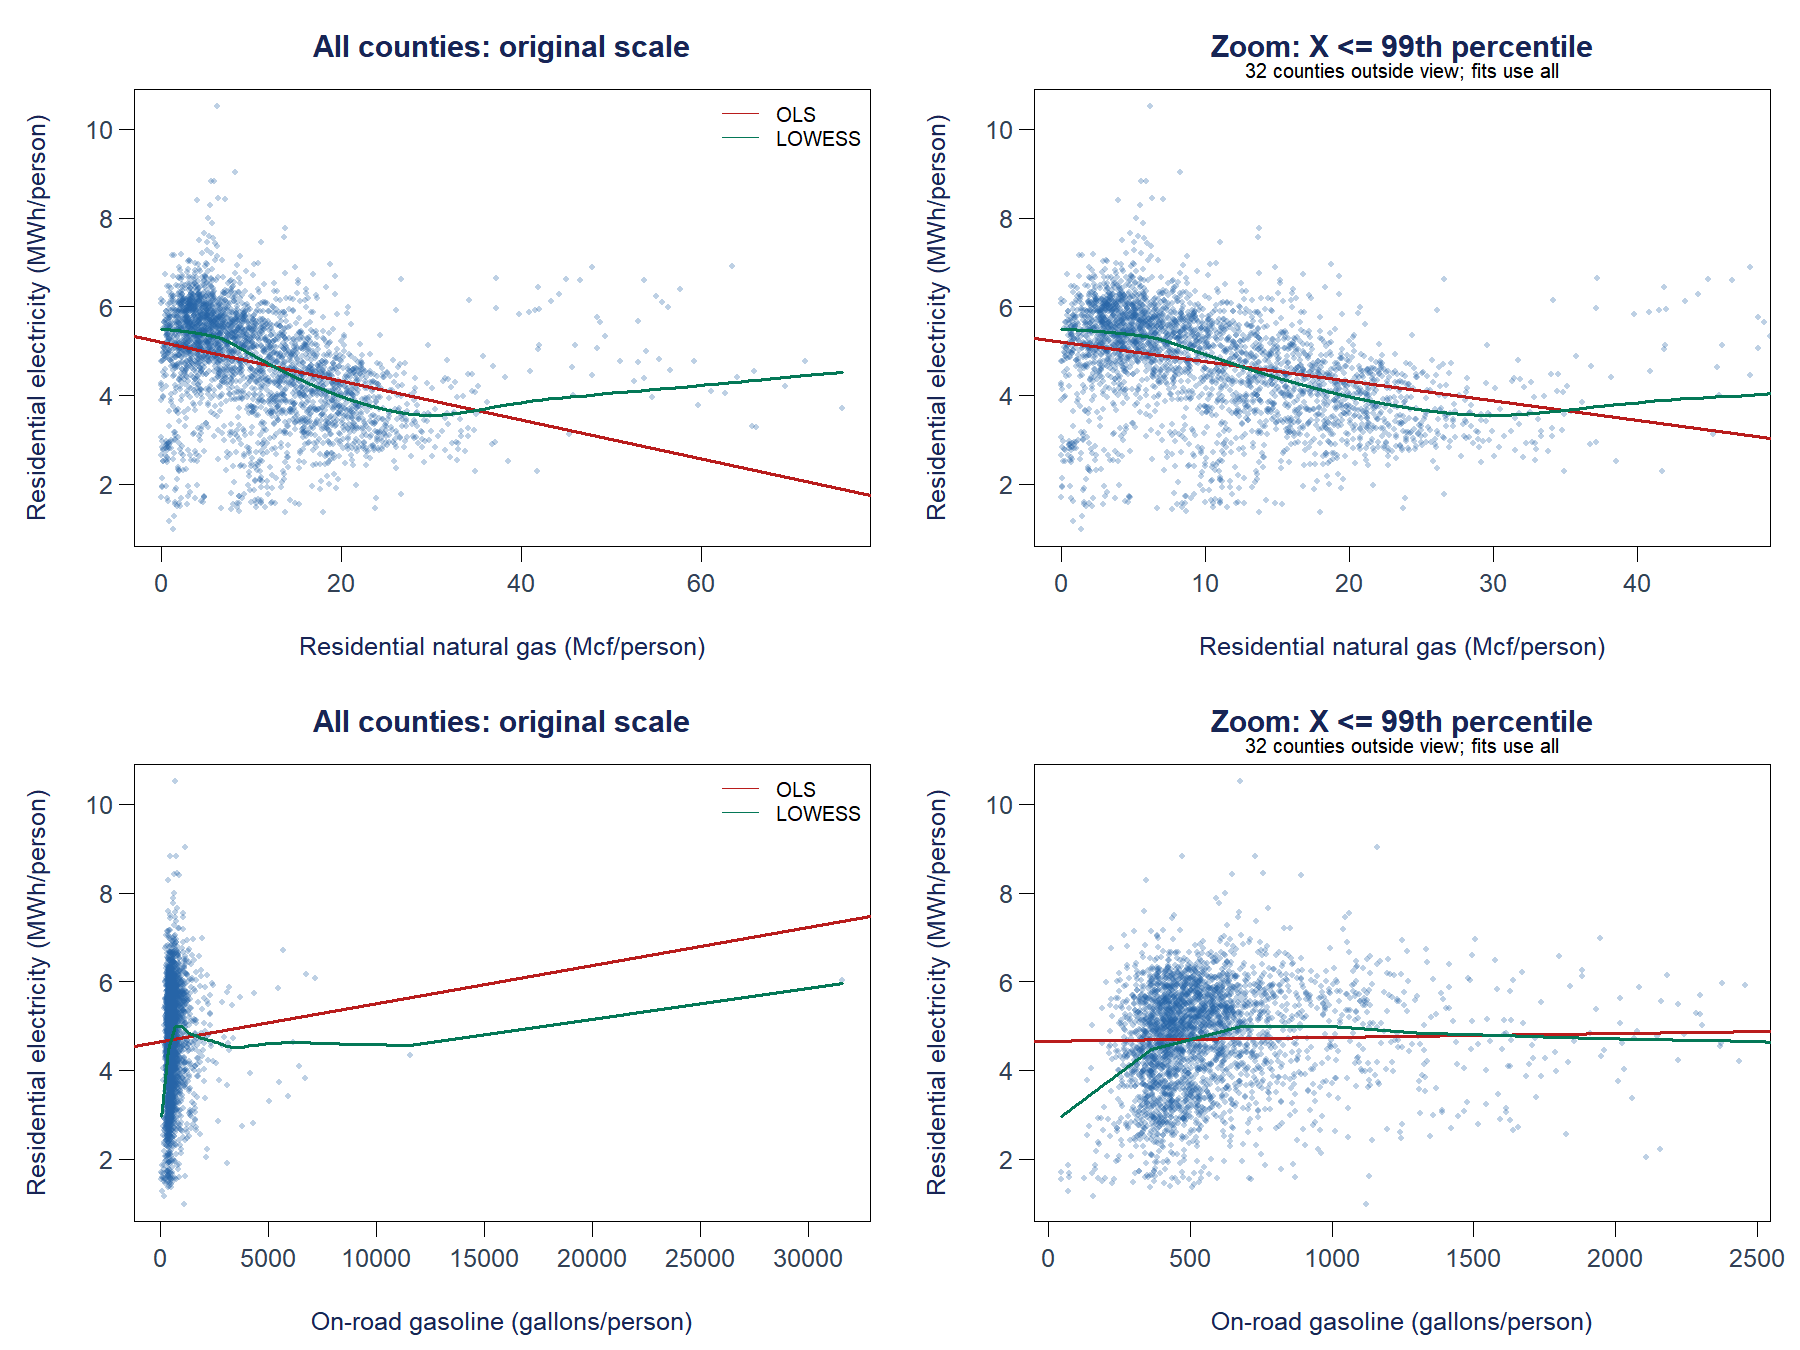
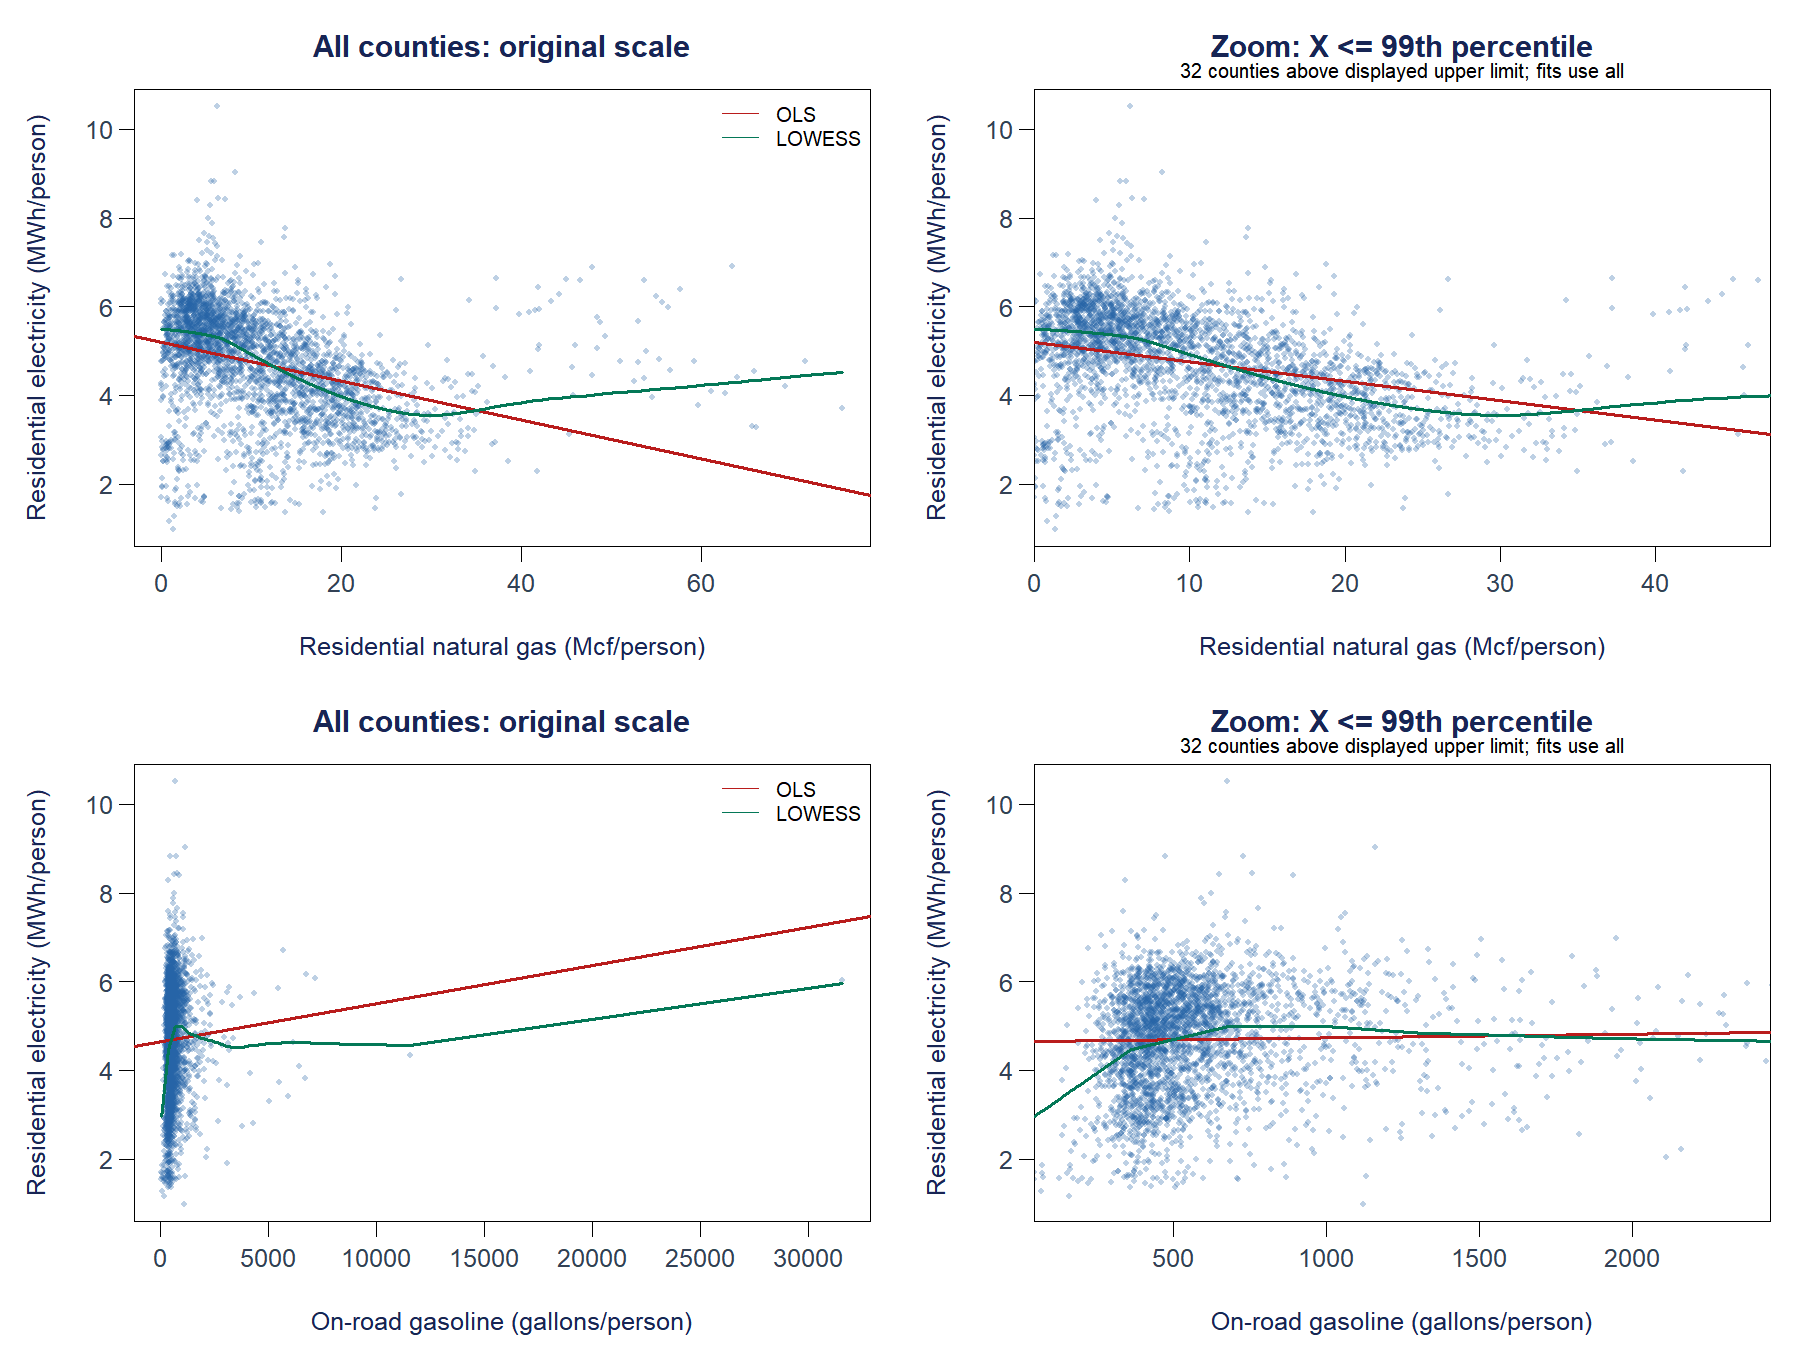
Correct energy audit geography, CV interpretation, R2 denominators and zoom bounds

diff --git a/outputs/saad_energy_consumption/VALIDATION.md b/outputs/saad_energy_consumption/VALIDATION.md
@@ -1,29 +1,75 @@
-# Final validation record
+# Audit-correction validation record
 
-Executed on Windows with R 4.5.2, using the accepted baseline.
+Executed from the repository root on Windows with R 4.5.2. Fetched PR #1's head
+and confirmed it was the audited `4d467d5a57b3259b13d8e52cb76d19700685fcec`;
+there was no newer branch work to reconcile. Scope remains Saad's contribution.
 
-- `Rscript R/01_energy_consumption.R`: PASS; five models, all 3,142 counties,
-  nine gas zeros retained, descriptive/inference/diagnostic/sensitivity outputs.
-- `Rscript R/validate_energy_analysis.R`: PASS; independent refits verify five
-  coefficient tables and OLS inference, HC3 SEs, summaries and 20 sensitivity fits.
-- `rmarkdown::render('reports/saad_energy_consumption.Rmd')`: PASS with installed
-  knitr/rmarkdown and RStudio-bundled Pandoc. Final render had no missing-resource
-  warnings; four figures are embedded and seven tables are present. HTML preview
-  is supplied separately to avoid committing a duplicate generated document.
-- Eleven PNGs pass size/nonblank checks; figure review covered distributions,
-  raw/transformed relationships, model diagnostics, influence and conditional fits.
-- `git diff --check`: PASS before commit.
-- The unchanged baseline validator passes RDS/CSV equivalence and its other checks.
-- R startup reports pre-existing C.UTF-8 locale warnings on Windows. Execution,
-  model checks and knitting succeeded; no numerical warning was suppressed in
-  the standalone R execution. Rmd suppresses routine messages in its display.
+## Executed checks
 
-Unchanged accepted-data SHA-256 values:
+- `Rscript R/01_energy_consumption.R`: PASS. All five primary models retain
+  3,142 counties and all nine recorded gas zeros. Existing influence/sensitivity
+  fits and the simpler log-gasoline candidate remain available.
+- `Rscript R/validate_energy_analysis.R`: PASS. Independently refits baseline
+  formulas and verifies OLS inference, HC3 SEs/intervals/p-values using squared
+  residuals divided by (1-h)^2 and residual-df t references, descriptive summaries,
+  all 20 existing sensitivity fits, sample sizes and zero handling.
+- Five primary R-squared values remain 0.1163492614, 0.0030101537, 0.1176899597,
+  0.1363949014 and 0.1862684555. Raw adjusted gasoline OLS p=0.0290367815;
+  HC3 p=0.1158529021. HC3 allows unequal variance under independent observations,
+  not geographic dependence.
+- Independently reconstructs seed-525 balanced folds and refits coefficients on
+  training rows. Each county receives exactly one out-of-fold prediction per
+  model. Pooled sqrt(sum(squared errors)/3142) is 1.1230250267, 1.1917891902,
+  1.1223043325, 1.1102757225 and 1.0772109965 MWh/person in existing model order.
+  Quadratic improvement over gas + log gasoline: 0.0330647259 MWh/person;
+  over raw multiple: 0.0450933359. These are exploratory candidate comparisons,
+  not independent validation of selection or new-region performance.
+- Full-data quadratic minimum: 35.12670583 Mcf/person. Strictly above it: 60
+  counties (NE 36, IL 13; remaining states/counts exported). Gas derivative at
+  observed endpoints 0 and 75.71753530: -0.0999861479 and +0.1155394616.
+- Joint NE/IL exclusion: n=2,947; gas coefficients -0.07519073954 and
+  +0.0002136335675. Observed gas range 0-51.04531723 Mcf/person; minimum
+  175.98062990 is outside it. Endpoint derivatives -0.07519073954 and
+  -0.05338075310 are both negative: no observed rising limb. This exploratory
+  change in range/composition does not identify a state effect or invalidate
+  the full-sample fit.
+- Independently verifies both term-contribution denominators from residual sums
+  of squares. Raw gasoline delta R-squared=0.001340698273 (0.1340698273 percentage
+  points of total response variation); partial R-squared=0.001517226450
+  (0.1517226450% of variation unexplained by gas). Checks
+  delta=(1-R-squared_reduced)*partial for all existing term comparisons.
+- Production zoom `par('usr')` matches explicit minimum/99th-percentile limits
+  using `xaxs='i'`. Independently reconstructs limits and draws test viewports:
+  gas [0,47.3510482008], gasoline [46.6587643276,2448.9201558783]. Exactly 32
+  strict exceedances for each upper bound; full-data OLS/LOWESS curves retained.
+
+## Render and inspection
+
+- Fresh R session: `rmarkdown::render('reports/saad_energy_consumption.Rmd')`
+  succeeds using knitr/rmarkdown and RStudio-bundled Pandoc. No missing-resource
+  or analysis warnings in the render. Seven numbered tables and four numbered,
+  embedded figures checked in HTML; corrected narrative values, units, caption,
+  CV qualification, geographic result and R2 denominators verified in rendered text.
+- The Figure 2 PNG embedded in HTML is byte-identical to the regenerated output;
+  that embedded image was extracted and visually inspected. Exact zoom limits,
+  readable annotations and both full-data curves are present. Other PNGs and
+  existing model/comparison outputs remain unchanged from the audited head.
+- Browser policy blocked a file-protocol HTML preview. No browser-layout visual
+  inspection is claimed; HTML structure/text and actual embedded Figure 2 were
+  inspected directly. No duplicate HTML preview is committed.
+- R startup emits the same four pre-existing C.UTF-8 locale warnings on Windows;
+  numerical execution and knitting succeed. The Rmd hides routine warnings and
+  messages in its display; standalone executions exposed startup warnings.
+- Final diff/whitespace and scope checks cover only authorized Saad files.
+  Protected data, baseline validator, preparation/merge scripts, teammate scripts
+  and `progress_report.Rmd` remain unchanged against the PR base.
+
+Accepted-data SHA-256 values (unchanged):
 
[2 lines of base64/hex data omitted]
 
-Shared data, preparation/merge/validation scripts, `progress_report.Rmd`,
-`R/02_economic_factors.R` and `R/03_electricity_prices.R` were not modified.
-Scope is Saad's contribution; group-report integration and final student review
-remain. This is a preliminary descriptive model with documented assumption issues.
+The quadratic remains a provisional full-sample description. Geographic
+concentration, spatial dependence, selection optimism, confounding and remaining
+residual departures limit inference. Group-report integration and Saad's review
+remain; source attribution and AI-assistance disclosure are retained.

diff --git a/outputs/saad_energy_consumption/README.md b/outputs/saad_energy_consumption/README.md
@@ -8,7 +8,8 @@ Base R only. All primary outputs use 3,142 counties. The baseline is not modifie
 - `01_distributions.png`: full-range histograms/boxplots for all three variables.
 - `01b_gasoline_log_distribution.png`: full gasoline distribution on log scale.
 - `02_relationships.png`: raw scatterplots with OLS/LOWESS; explicitly labeled
-  99th-percentile zoom panels preserve full-data fits.
+  exact observed-minimum/99th-percentile zoom limits preserve full-data fits.
+  Counts are strict predictor exceedances of the displayed upper boundary.
 - `03_transformed_relationships.png`: exploratory log1p-gas/log-gasoline plots.
   These are marginal exploratory fits, not the selected multiple model.
 - `04_influence.png`: full-sample Cook's distance; FIPS label key cases.
@@ -25,10 +26,16 @@ Base R only. All primary outputs use 3,142 counties. The baseline is not modifie
   HC3 SE/CI/p sensitivity. Underflowed numerical p=0 means extremely small,
   not literally zero; narrative/tables format these as p < 0.001.
 - `model_comparison.csv`: n, R-squared, adjusted R-squared, residual SE,
-  seeded 10-fold original-response RMSE, maximum leverage and Cook's distance.
+  seeded pooled 10-fold original-response RMSE, maximum leverage and Cook's distance.
+  Common random county folds compare explored candidate formulas; the winner's
+  RMSE does not independently validate selection or new-region performance.
 - `vif.csv`: model-specific variance inflation factors.
 - `partial_r_squared.csv`: individual coefficient/term contribution given other
-  terms. Gas and its square are related; removing a linear term while retaining
+  terms. `partial_r_squared` divides the reduction in SSE by reduced-model SSE
+  (variation unexplained by the other terms); `delta_r_squared` divides it by total
+  centered response sum of squares (increase in ordinary R-squared). Both are
+  dimensionless proportions; multiplying by 100 gives percent remaining variation
+  and percentage points of total variation, respectively. Gas and its square are related; removing a linear term while retaining
   its square is a descriptive comparison, not a recommended hierarchical model.
 - `diagnostic_summary.csv`: fitted-value BP-style n*R-squared check (1 df),
   residual summary and numbers flagged at leverage > 2p/n, Cook's D > 4/n,
@@ -41,9 +48,19 @@ Base R only. All primary outputs use 3,142 counties. The baseline is not modifie
 - `sensitivity_coefficients.csv`: all counties; without Loving; without the
   model's single highest-Cook case; without Cook-screen cases. Exclusions are
   labeled diagnostic scenarios, not a replacement cleaned dataset.
+- `gas_upturn_tail_by_state.csv`: counts strictly above the full-data quadratic
+  minimum by state, and that minimum in Mcf/person. NE and IL dominate this tail.
+- `geographic_sensitivity.csv`: full sample and exploratory joint NE/IL exclusion;
+  n, gas coefficients, observed gas range, implied minimum, in-range flag and
+  derivatives at both endpoints. `observed_rising_limb` requires a positive square
+  coefficient and negative/positive endpoint derivatives. Changing range/composition
+  does not identify a state effect; primary models still use all counties.
+- `relationship_zoom_bounds.csv`: intended limits, actual production `par('usr')`
+  horizontal bounds and strict counts above the upper limit; all fits use all rows.
 - `execution_validation.txt`: in-script checks and R session information.
 
 `R/validate_energy_analysis.R` independently refits all five model formulas,
-checks exported inference/HC3 SEs and summaries, and validates all sensitivity
-fits. `reports/saad_energy_consumption.Rmd` provides interpretation;
+checks exported inference/HC3 t-based inference and summaries, and validates all
+existing sensitivity fits, independent seeded out-of-fold predictions, both R2
+contribution denominators, geographic refits/derivatives and exact zoom bounds. `reports/saad_energy_consumption.Rmd` provides interpretation;
 `docs/saad_energy_summary.md` provides the compact handoff.

diff --git a/docs/saad_energy_summary.md b/docs/saad_energy_summary.md
@@ -21,16 +21,23 @@ Gasoline is jurisdictional travel per resident, not household gasoline usage.
 | Electricity ~ gas + ln(gasoline) | 0.13639 | 0.13584 | 1.10890 | 1.11028 |
 | Electricity ~ gas + gas squared + ln(gasoline) | 0.18627 | 0.18549 | 1.07658 | 1.07721 |
 
-SE/RMSE units are MWh/person; n = 3,142 throughout. Random-fold CV is an
-interpolation check, not geographically independent validation.
+SE/RMSE units are MWh/person; n = 3,142 throughout. These are exploratory
+candidate-formula comparisons on the same seeded random county folds. Adding
+the quadratic to gas + log gasoline lowers RMSE by 0.0331 MWh/person (0.0451
+versus raw multiple regression). Full-data exploration informed the formulas and
+CV helped select the winner: its RMSE can be optimistic for the whole selection
+process and is not an independent assessment or evidence of new-region performance.
+Fixed row-wise logs/squares introduce no training/test leakage.
 
 - Gas/electricity Pearson r = -0.3411; Spearman r = -0.4556. Simple slope
   -0.04390 MWh/person per Mcf/person (OLS 95% CI -0.04813 to -0.03967).
 - Gasoline/electricity Pearson r = 0.0549; Spearman r = 0.1808. Simple slope
   0.00008606 per gallon/person, or 0.00861 MWh/person per 100 gallons/person.
   Classical p = 0.0021, but HC3 p = 0.104: avoid calling this strong evidence.
-- Raw multiple slopes: gas -0.04365; gasoline 0.00005752. Gasoline adds only
-  0.00152 partial R-squared beyond gas. Its HC3 p = 0.116, despite OLS p = 0.029.
+- Raw multiple slopes: gas -0.04365; gasoline 0.00005752. Adding gasoline raises
+  ordinary R-squared by 0.001340698 (0.134 percentage points of total response
+  variation); partial R-squared is 0.001517226 (0.152% of variation unexplained
+  by gas alone). Its HC3 p = 0.116, despite OLS p = 0.029.
 - Raw predictor correlation -0.0537 and VIF 1.003: fuel-to-fuel collinearity is negligible.
 
 ## Preferred preliminary model
@@ -38,13 +45,17 @@ interpolation check, not geographically independent validation.
 `electricity = 3.55018 - 0.099986*gas + 0.00142322*gas^2 + 0.314104*ln(gasoline)`.
 
 The quadratic follows visible gas curvature; logging gasoline reduces extreme
-ratio leverage. It has lower cross-validation error, while leaving the response
+ratio leverage. It has lower exploratory candidate-comparison RMSE, while leaving the response
 in useful original units. About 18.6% of electricity variation is explained.
 A doubling of gasoline corresponds to about 0.218 MWh/person more electricity
 at fixed gas (HC3 95% CI about 0.145 to 0.290). Gas's slope varies: at 10 Mcf/person
 it is about -0.0715 MWh/person per additional Mcf/person; the fitted minimum is
-near 35.1 Mcf/person. Do not summarize the full curve as uniformly negative or
-interpret the upturn causally. `log1p(gas)` was inspected graphically and preserves
+near 35.1 Mcf/person. Of 60 counties above it, 36 are in Nebraska and 13 in
+Illinois; the exploratory joint exclusion (n=2,947) gives a minimum of 175.98,
+outside the retained 0-51.05 Mcf/person range, so decline remains but no observed
+rising limb; changed composition/range identifies no state effect or invalid fit.
+The quadratic remains a provisional full-sample description, not a general fuel-
+substitution claim. `log1p(gas)` was inspected graphically and preserves
 zeros, but did not clearly resolve the high-tail curvature; ordinary log gas was
 not used. No broad transformation search was performed.
 
